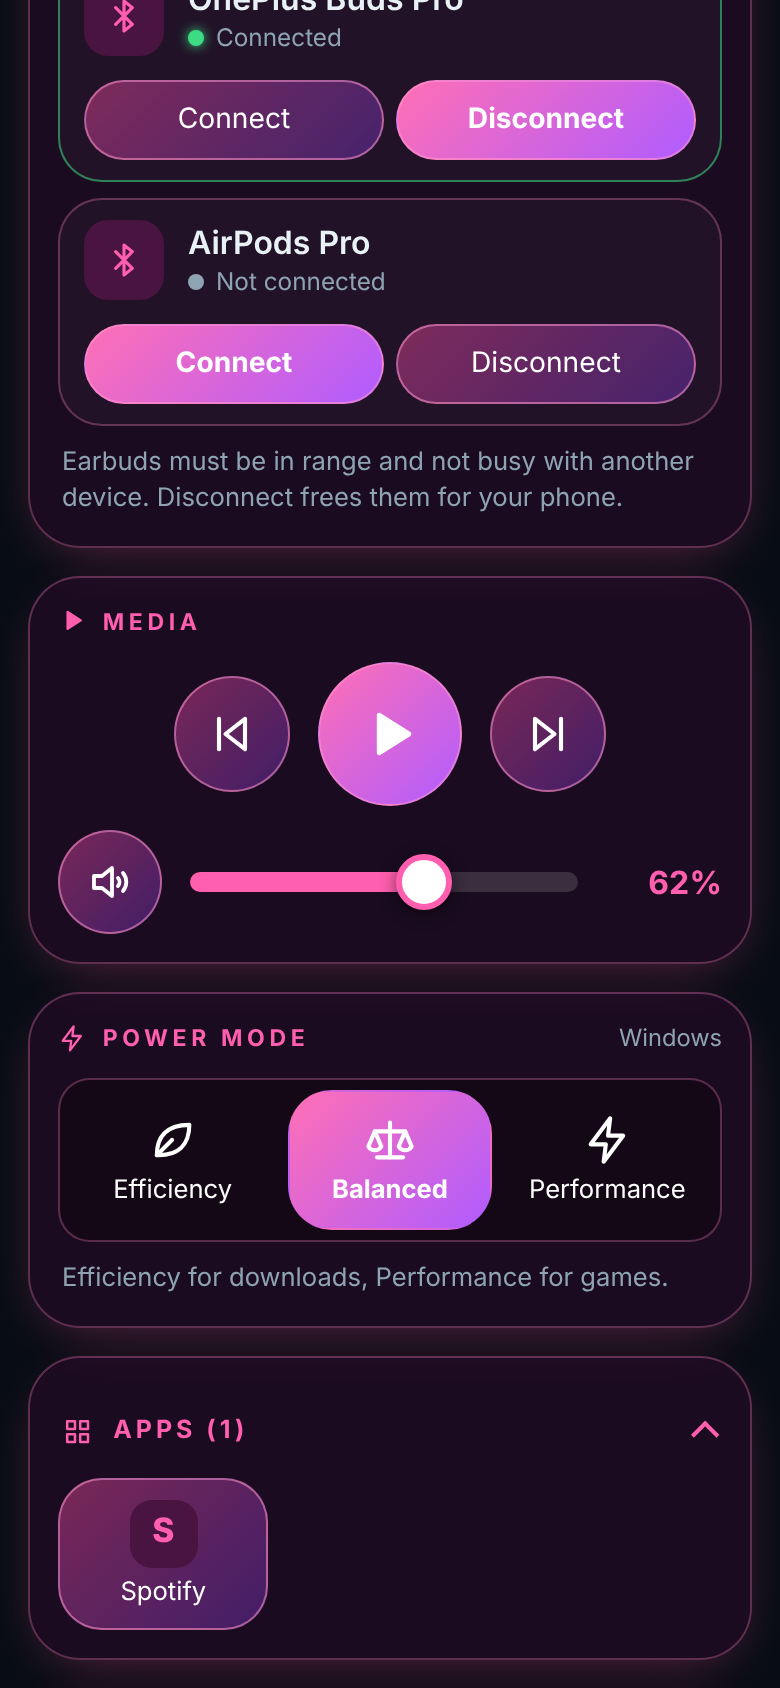
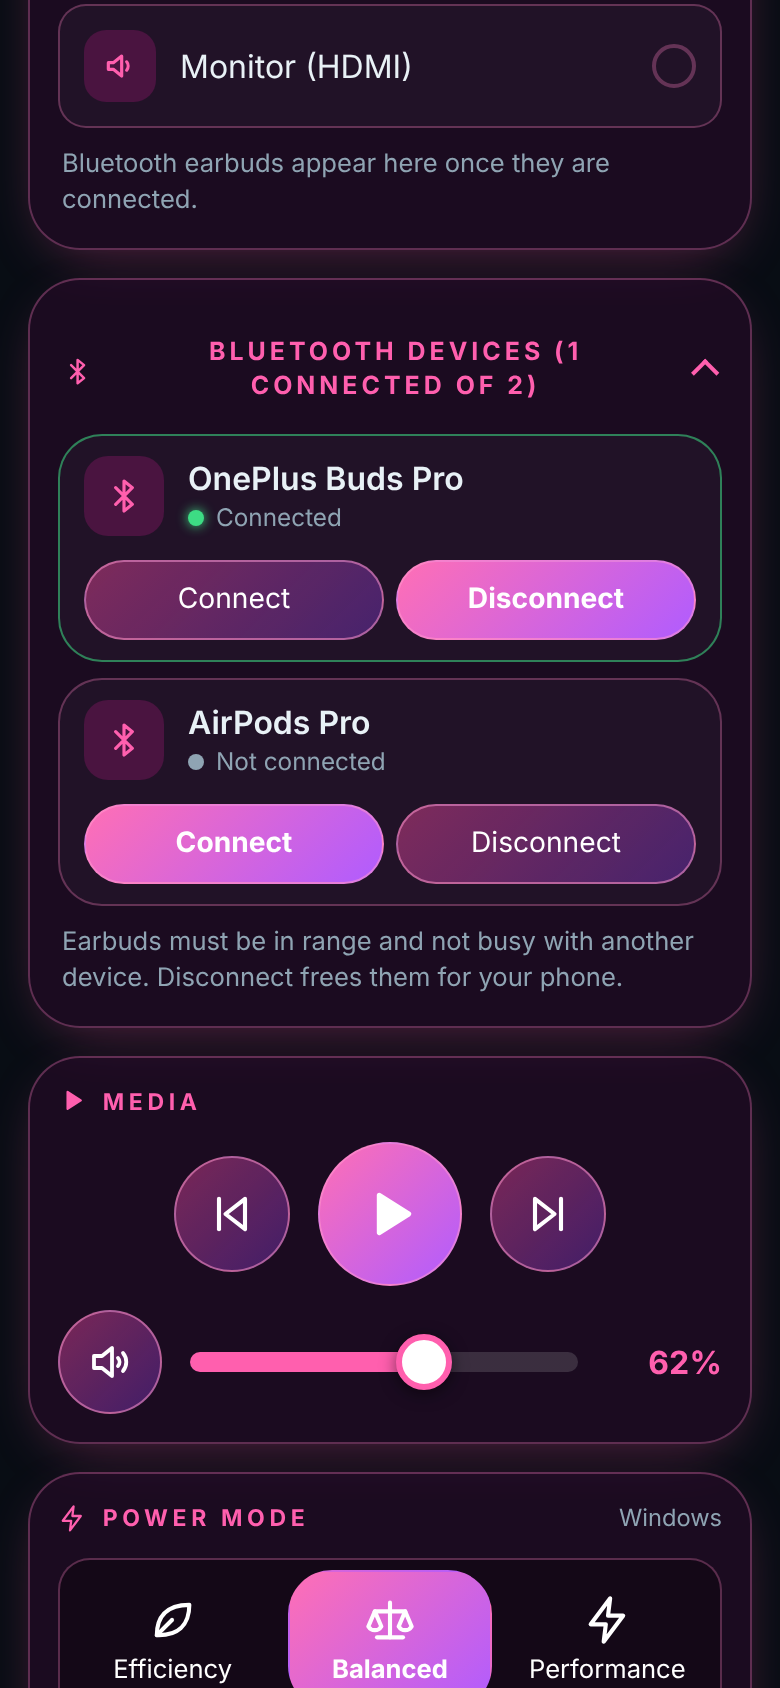
Windows list: switch to or close open windows from the phone
Claude-Session: https://claude.ai/code/session_012UQxDSXoho6XEbKP234m17

diff --git a/src/web/app.js b/src/web/app.js
@@ -247,7 +247,7 @@ function tile(name, label, fn, opts) {
   return b
 }
 
-function acc(id, title, content, iconName) {
+function acc(id, title, content, iconName, onOpen) {
   const d = el('div', 'acc' + (opened.has(id) ? ' open' : ''))
   const h = el('button', 'acc-h')
   h.type = 'button'
@@ -261,11 +261,62 @@ function acc(id, title, content, iconName) {
   h.addEventListener('click', () => {
     const o = d.classList.toggle('open')
     h.setAttribute('aria-expanded', o ? 'true' : 'false')
-    if (o) opened.add(id)
-    else opened.delete(id)
+    if (o) {
+      opened.add(id)
+      if (onOpen) onOpen()
+    } else opened.delete(id)
   })
   d.append(h, b)
   return d
+}
+
+// -- the Windows list: what is open on the PC, switch to it or close it ------------------------------------------------
+// Loaded only when the drop-down is opened (asking Windows takes a moment), kept here so a redraw of the page does not lose it.
+const winState = { list: null, loading: false, error: '' }
+let winBox = null
+async function loadWindows() {
+  if (winState.loading) return
+  winState.loading = true
+  winState.error = ''
+  drawWindows()
+  try {
+    winState.list = (await call('/api/windows')).windows
+  } catch (err) {
+    winState.error = err.message
+  }
+  winState.loading = false
+  drawWindows()
+}
+function drawWindows() {
+  if (!winBox || !winBox.isConnected) return
+  winBox.textContent = ''
+  const bar = el('div', 'winbar')
+  const refresh = btn(winState.loading ? 'Looking…' : 'Refresh', () => loadWindows(), winState.loading, undefined, winState.loading ? 'busy' : '')
+  bar.append(refresh, btn('Show desktop', () => act('desktop_toggle')))
+  winBox.append(bar)
+  if (winState.error) winBox.append(el('div', 'empty', winState.error))
+  else if (!winState.list) winBox.append(el('div', 'empty', winState.loading ? 'Asking the PC…' : 'Press Refresh to see the open windows.'))
+  else if (!winState.list.length) winBox.append(el('div', 'empty', 'No windows are open.'))
+  const list = el('div', 'list')
+  for (const w of winState.list || []) {
+    const item = el('div', 'item stack')
+    const nm = el('div', 'nm', w.title)
+    nm.append(el('small', '', (w.name || 'app') + (w.minimized ? ' · minimized' : '')))
+    item.append(nm)
+    const acts = el('div', 'acts')
+    acts.append(
+      btn('Switch', async () => {
+        await act('window_focus', w.id)
+      }, false, undefined, 'go'),
+      btn('Close', () => confirmBox('Close this window?', '"' + w.title + '" is asked to close. If it has unsaved work it may ask you first. If it is the window that runs this remote, the remote stops.', 'Close', async () => {
+        await act('window_close', w.id)
+        setTimeout(loadWindows, 1200)
+      }, true)),
+    )
+    item.append(acts)
+    list.append(item)
+  }
+  winBox.append(list)
 }
 
 function dropdown(options, value, onPick, disabled, keepLabel, onOpen) {
@@ -754,6 +805,13 @@ function render() {
     mode.append(seg)
     mode.append(el('div', 'note', 'Efficiency for downloads, Performance for games.'))
     p.append(mode)
+
+    // -- windows open on the PC --------------------------------------------------------------
+    winBox = el('div', 'winbox')
+    const winCard = el('div', 'card')
+    winCard.append(acc('windows', 'Windows', winBox, 'laptop', () => loadWindows()))
+    drawWindows()
+    p.append(winCard)
 
     // -- apps and your own buttons ---------------------------------------------------------
     const apps = pc.apps || []

diff --git a/src/web/app.css b/src/web/app.css
@@ -239,3 +239,6 @@ select.field{max-width:190px}
 .coffee{margin:10px 0 6px}
 .coffee-btn{display:inline-block;background:#ffdd00;color:#222!important;padding:8px 16px;border-radius:20px;font-weight:700;text-decoration:none!important}
 .coffee-btn:hover{background:#ffd000}
+.winbar{display:flex;gap:10px;margin-bottom:10px}
+.winbar .b{flex:1}
+.winbox .item .nm{overflow-wrap:anywhere}

diff --git a/context.md b/context.md
@@ -198,3 +198,7 @@ Rules: one logical change per commit; run the tests before pushing; keep PowerSh
 Findings (read from the code, NOT measured on the ROG): actions.info() asked Windows for model, Steam, volume, Bluetooth, outputs and apps ONE AFTER ANOTHER (each PowerShell 0.3 to 3 s; the volume read compiles C# with Add-Type), Bluetooth cached 5 s and volume 3 s so every 15 s poll re-ran them; no sharing of in-flight runs (two phones = double work); /api/state probed every pcs.json "other PC" (up to 1.5 s each when off) although only wake-able ones are shown; page files were re-sent in full on every load; the slider could start many Add-Type runs.
 Changes: (1) `swr()` helper in actions.mjs (shared in-flight run, stale answer returned at once + background refresh, fresh()/set()/stale()) used for volume (10 s), Bluetooth (30 s), sound outputs (30 s), Start-menu apps (5 min); `memo()` now also shares in-flight runs. (2) info() runs everything in parallel, each part fail-safe (one failing part = empty, not a blank page). (3) volume_set merges a fast drag into at most one running command (last level wins). (4) server: others are probed only if they have a mac, answer kept 20 s; static files + pages get an ETag (304 when unchanged) and gzip; "[remote] slow page data: N s" is logged when /api/state takes > 2.5 s. (5) page: saves the last state in localStorage (`rsp_last`, only when no PIN session, max 6 h old), paints it at once with an "Updating…" banner, then replaces it (offerUpdate is skipped while showing saved state). (6) Diagnostics: new "Page speed" line = fresh timing of PowerShell start / volume / Bluetooth / outputs / Start-menu apps (warns above 4 s). (7) lint pass (ESLint run from /tmp, nothing added to the repo): no undefined names or real bugs, removed 3 unused imports/variables.
 Tests: swr sharing/parallel/stale, timings, volume coalescing, gzip+ETag+304, probe skipping, fail-safe info; browser check: with a laptop that needs 3 s the first visit waits 3.3 s, later visits paint in ~24 ms. Pending: owner to send the "Page speed" line from the ROG to see which part is slow in real life.
+
+## Windows list (owner, 2026-11-21: "add a windows button so I can change the windows, close them")
+- Page: "Windows" drop-down (loaded only when opened, Refresh, Show desktop; per window Switch and Close with a confirm box). Server: POST /api/windows -> actions.windows(); actions window_focus / window_close (arg = window id) and desktop_toggle. Script windowsScript (EnumWindows via Add-Type; visible, titled, not tool or cloaked windows; max 40). Focus = restore if minimised + an Alt tap + SetForegroundWindow; close = PostMessage WM_CLOSE (never a force kill). A window can only be touched if it was in the list shown in the last 5 minutes (ids validated against that list). Closing the window that runs the remote stops the remote (warned in the confirm box). Untested on real Windows (CI parses the script). Preview: leftover "Two laptops / One PC" bar and __navigate removed from make-preview.mjs.
+- NEXT (waiting for the owner): "Now playing" card (title/artist, prev/play/next, progress, cover) via Windows SMTC; owner has not answered the questions yet.

diff --git a/docs/SECURITY.md b/docs/SECURITY.md
@@ -22,6 +22,7 @@ This program lets a phone control a PC, so it is worth knowing exactly how it is
 - **Prefer Tailscale.** Over Tailscale the traffic is encrypted end to end. On the plain home network (`lan`) the page is plain HTTP, so anyone on that same Wi-Fi could see the key as it passes. Use `lan` only at home, on a network you control.
 - **Protect your Tailscale account** with two-step sign-in: anyone who can sign in to it can join your private network (they still need a paired key to do anything).
 - **Updating runs code from GitHub.** The **Update App** button downloads the newest version of this project from the repository named in `package.json` and runs it. You are trusting the owner of that repository. If you want to review changes first, fork the project, change `repository` in `package.json`, and update from your fork.
+- **Window titles are visible to a paired phone.** The Windows list shows the title of every open window (a browser tab title can be private). The phone can bring a listed window to the front or ask it to close with the normal close message: an app with unsaved work still asks you, and nothing is ended by force. Only windows from the list just shown can be touched.
 - **A phone can turn the PC off** (after a hold or a confirmation) and **cannot turn it back on** (see [START-FROM-OFF.md](START-FROM-OFF.md)).
 
 ## What it does not protect against
